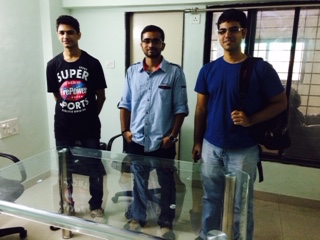
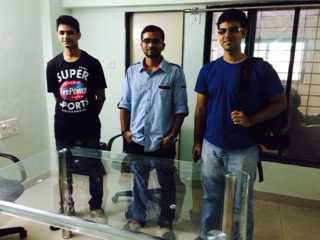
image size compressed to improve performance

diff --git a/WebContent/teamdiv.html b/WebContent/teamdiv.html
@@ -10,7 +10,7 @@
                             <div class="content">
                                 <div class="author">
                                     <a href="#">
-                                    <img class="avatar" src="images/Rommel_Profile.JPG" alt="Rommel"/>
+                                    <img class="avatar" src="images/Rommel_Profile.jpg" alt="Rommel"/>
                                     <h4 class="title">Rommel<br />
                                         <small>Writer & Director</small>
                                     </h4>
@@ -35,7 +35,7 @@
                             <div class="content">
                                 <div class="author">
                                     <a href="#">
-                                        <img class="avatar" src="images/the_A_team.JPG" alt="The A Team"/>
+                                        <img class="avatar" src="images/the_A_team.jpg" alt="The A Team"/>
                                         <h4 class="title">Aniruddh Mathur <br />
                                         <h4 class="title">Ankit Karnany <br />
                                             <small>The A Team</small>
